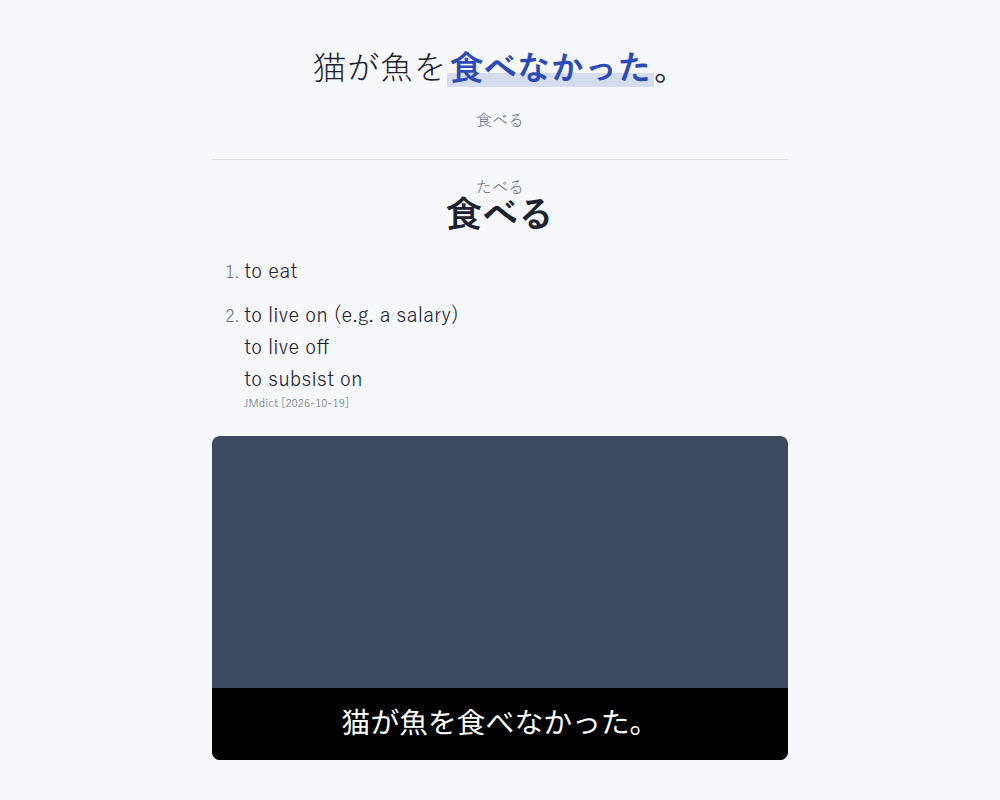
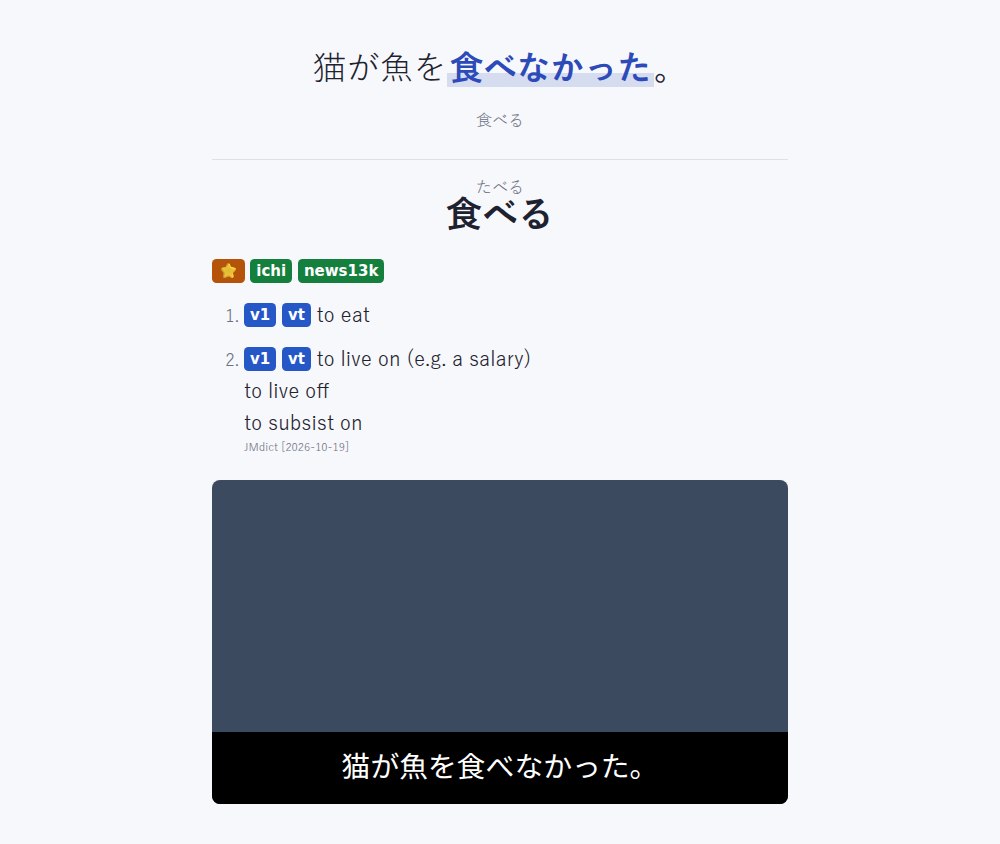
Describe the dictionary tags in the README
Update the popup and card screenshots.

diff --git a/README.md b/README.md
@@ -8,7 +8,7 @@ Minerr does these steps in the browser:
 
 1. It parses the Japanese text on each page into words, with the [kuromoji](https://github.com/takuyaa/kuromoji.js) tokenizer.
 2. It underlines each word in the color of its status: unknown, learning, known, or ignored.
-3. When you move the mouse over a word, it shows the dictionary definitions.
+3. When you move the mouse over a word, it shows the dictionary definitions with their tags, for example `n` (noun) and `⭐` (high priority).
 4. With one key, it makes an Anki card. The card has the word, the reading, the sentence, the definitions, and a screenshot of the tab.
 
 ![Words on a page with status underlines](docs/page.png)
@@ -20,6 +20,8 @@ Minerr does these steps in the browser:
 - The extension parses the text on all pages, and also the text that appears later. Subtitles on YouTube and Netflix are page text, so Minerr parses them too.
 - It joins a verb or adjective with its inflections into one word. For example, 食べなかった is one word with the dictionary form 食べる.
 - It looks up definitions in a Yomitan dictionary that you import, for example JMdict.
+- It shows the tags of the dictionary in color, as Yomitan does. The tags of the word, for example `⭐` (high priority) and `ichi` or `news13k` (frequent), are next to the reading. The tags of each definition, for example `v1` (Ichidan verb) and `uk` (usually in kana), are before the definition. Move the mouse over a tag to see what it means.
+- If the word has more than one reading in the dictionaries, the popup shows each reading with its own definitions.
 - It keeps the word statuses in the browser. A status change updates the underlines in all open tabs at once.
 - It sends cards to Anki through AnkiConnect. It makes the deck and the note type if they do not exist.
 - It can mark the words of your mature Anki cards as known.
@@ -71,6 +73,8 @@ AnkiConnect accepts requests from browser extensions by default. If the popup sh
 4. Wait for the message `Imported JMdict [...]: ... terms`. The import takes about one minute.
 
 You can import other Yomitan term dictionaries in the same way. If you import a dictionary with the same title again, the new import replaces the old one.
+
+Minerr shows the tags of all dictionaries. A dictionary that you imported with an earlier version of Minerr has no tags. Its row on the options page shows `Import again to show tags.` Import the zip file again to get the tags.
 
 On the options page, click **Check connection** in the **Anki** section. The page must show `Connected (AnkiConnect version 6)`.
 
@@ -139,13 +143,13 @@ The note type is `Minerr`. It has these fields:
 | `Word` | The dictionary form of the word, for example 食べる. |
 | `Reading` | The reading from the dictionary, for example たべる. |
 | `Sentence` | The sentence from the page. The word is in `<b>`. |
-| `Definition` | The definitions as a numbered list, with the dictionary name. |
+| `Definition` | The tags of the word, then the definitions as a numbered list with their tags and the dictionary name. It contains only the definitions for the reading in `Reading`. |
 | `Image` | The screenshot of the tab. |
 
 The note type has one card type, `Recognition`:
 
 - **Front.** The sentence in large text, with the word in color. The dictionary form is in small text below it.
-- **Back.** The front, then the word with its reading as furigana, the definitions, and the screenshot.
+- **Back.** The front, then the word with its reading as furigana, the tags and the definitions, and the screenshot.
 
 The card has a light theme and a night mode theme. It also fits phone screens. If a field is empty, the card does not show it.
 
@@ -167,6 +171,7 @@ The code has no build step and no framework.
 | `src/page.js` | Finds Japanese text on the page and wraps each word. |
 | `src/popup.js` | The dictionary popup and its keys. |
 | `src/status.js` | The word statuses, their colors, and their storage. |
+| `src/tags.js` | The colors of the dictionary tags, for the popup and the card. |
 | `src/anki.js` | The AnkiConnect client and the note type. |
 | `src/db.js` | The dictionary storage in IndexedDB. |
 | `src/group.js`, `src/sentence.js`, `src/yomitan.js`, `src/zip.js` | Pure functions for the parse, the sentence, the dictionary format, and the zip reader. |
@@ -183,7 +188,7 @@ More scripts:
 
 - `node test/screenshots.mjs` saves screenshots of the page, the popup, and the options page to `/tmp/minerr-ui`.
 - `node test/card-preview.mjs` saves screenshots of the card to `/tmp/minerr-card`.
-- If the system has no Japanese font, set `CJK_FONT_DIR` to a folder that contains one.
+- If the system has no Japanese font, set `CJK_FONT_DIR` to a folder that contains one. Put an emoji font in the same folder, for example `seguiemj.ttf` from Windows. Without it, the `⭐` tag shows as a box.
 - If Chromium cannot start because a library such as `libnss3.so` is missing, set `LD_LIBRARY_PATH` to a folder with the missing libraries.
 - If you update kuromoji, run `npm run vendor` and commit the `vendor/kuromoji` folder.
 
